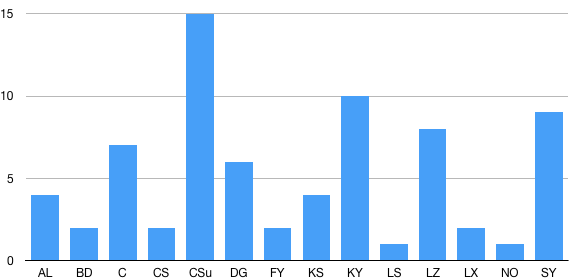
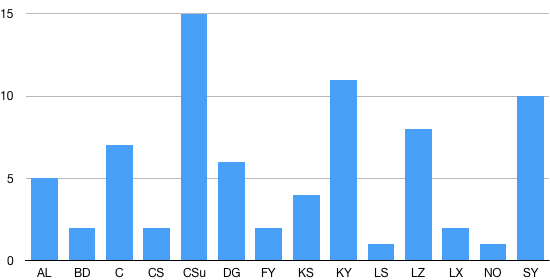
Updated proposal.

diff --git a/projects/final_projects_2019.md b/projects/final_projects_2019.md
@@ -3,7 +3,7 @@ Final Projects
 
 ## Spring 2019
 
-* Devising a Text Classifier that Categorizes Bitcoin Related Articles by Subtopic to Analyze the Dynamics of Subtopic Trend +4
+* Devising a Text Classifier that Categorizes Bitcoin Related Articles by Subtopic to Analyze the Dynamics of Subtopic Trend +5
   * Sangkyun An, Seung Hyun Lim
   * [Abstract](https://drive.google.com/open?id=12GFvh9xsB2qYrg4umnOj0XjmjWD6HEr3), [Proposal](https://drive.google.com/open?id=1KFpPnRLZrYwlNLjChJiiPgUk9-I3G1vn) ([slides](https://drive.google.com/open?id=1YErA9u8OTaYI951XnJszn4MIAAd6sPY6)), Paper (slides)
 * Treasure Trove: Unlocking the Mystery Behind the Russian Trolls +2
@@ -27,7 +27,7 @@ Final Projects
 * Visualizing the Filmography of Hollywood Stars +4
   * Justin Kim, Eunsung Shin
   * [Abstract](https://drive.google.com/open?id=1-HHr3Pmy3lzR51GtiPaAIlCVoBl3MPgE), [Proposal](https://drive.google.com/open?id=1D6vQMW_JZ5iHst_4ggRNt2Up14Qsg2Sc) ([slides](https://drive.google.com/open?id=1p3FDwWStxAV_isYmo-NqFK8yKUxTLdRU)), Paper (slides)
-* Instruction on Building a Successful Game App +10
+* Instruction on Building a Successful Game App +11
   * Lisa Kuai, Francis Yin
   * [Abstract](https://drive.google.com/open?id=1CRdbVeUpM0XnKdsMSFFOO9cafM0RFwBQ), [Proposal](https://drive.google.com/open?id=1Mek9gnuszS6WaDRsWuje8HYPlllGi3wz) ([slides](https://drive.google.com/open?id=1dbIrJ9VBARy2hLSHkHOJRRtqXkzM6xYu)), Paper (slides)
 * Assessing the Impact of New York Times News Articles With Respect to the Application of Benford's Law on IPO Prices in the United States Financial Market +1
@@ -42,7 +42,7 @@ Final Projects
 * Broadening Horizons: A Sentiment Analysis of Music Reviews +1
   * Jake Nachlas, Matt Organisak
   * [Abstract](https://drive.google.com/open?id=13aYgY-6Qod8ybMRxj7F9Gry3NQndSR7u), [Proposal](https://drive.google.com/open?id=1pf4IBlhvCHfBcxOqlunagVAiEVy2O53c) ([slides](https://drive.google.com/open?id=1Kigom90ED63BH9WyMdZ_GQwAGT8MYahM)), Paper (slides)
-* Emory Professors Review Scores Distribution on RateMyProfessors.com +9
+* Emory Professors Review Scores Distribution on RateMyProfessors.com +10
   * Colleen Su, Derick Yang
   * [Abstract](https://drive.google.com/open?id=1RcaOA46olr7T8MRlJq9UKNk_p3BGFwSu), [Proposal](https://drive.google.com/open?id=1qAGKTT6Nw2TSpYIrqPVF7ujvwaBF4Zxo) ([slides](https://drive.google.com/open?id=1d4PbZYKsZIIuVlIEgsU2YYIugUT33AFK)), Paper (slides)
 
